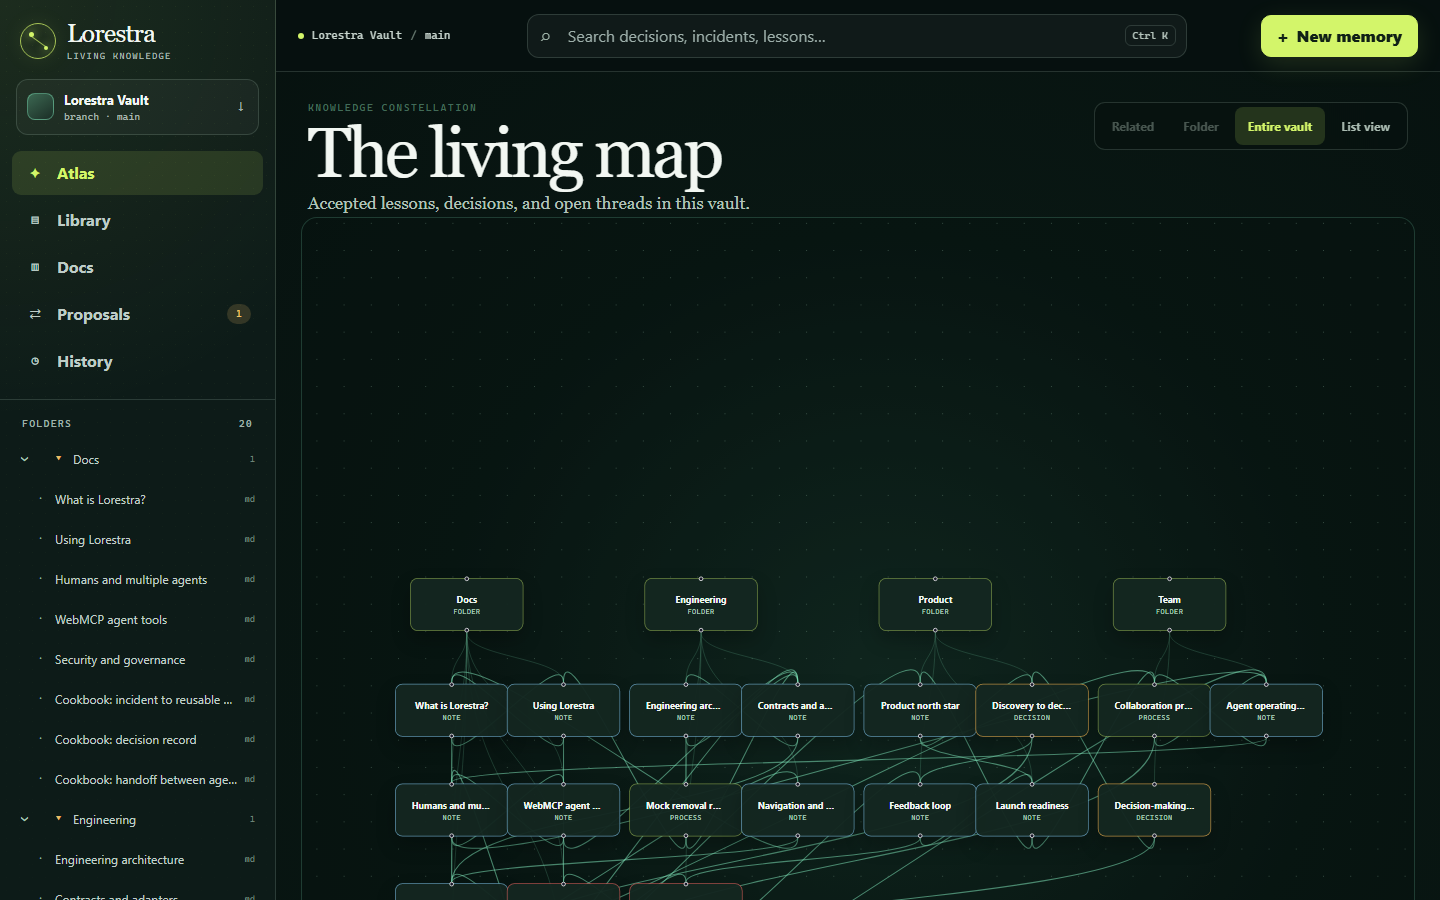
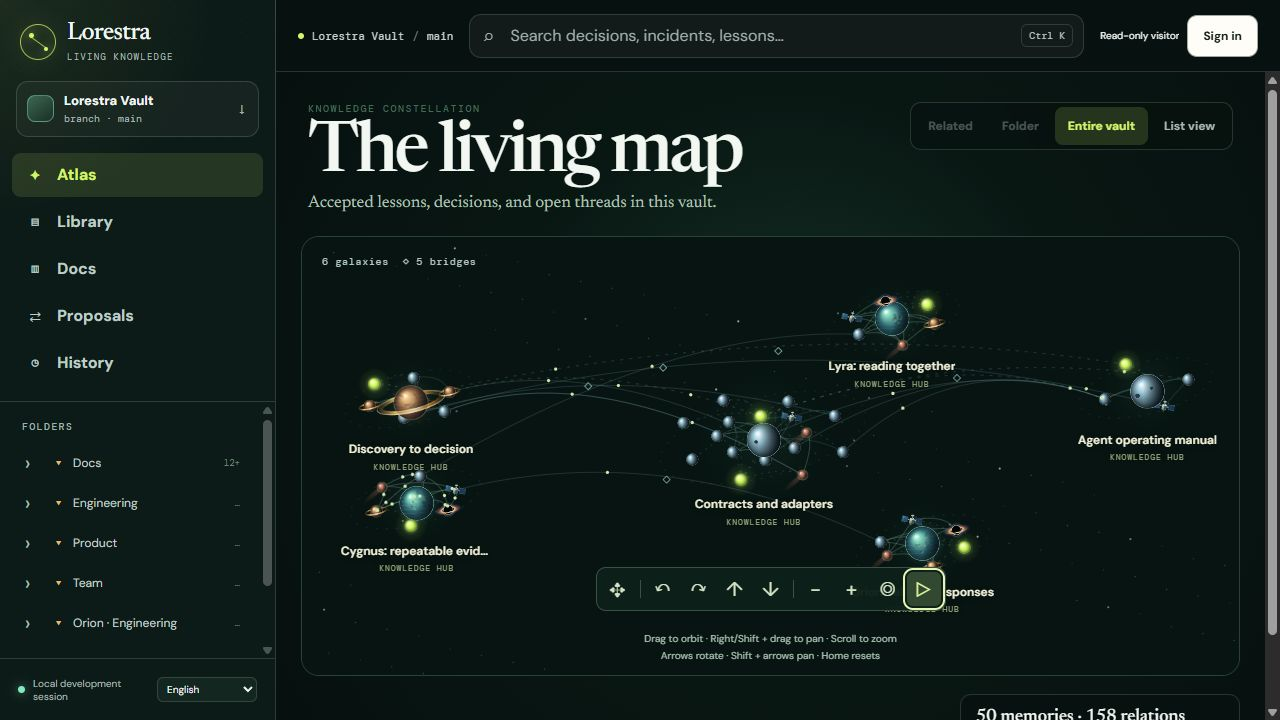
docs(docs): refresh README with current product screenshots

diff --git a/README.md b/README.md
@@ -16,7 +16,9 @@
 
 </div>
 
-![Lorestra Atlas showing a connected, bilingual knowledge vault](docs/media/lorestra-atlas.png)
+![Lorestra's celestial Atlas with connected galaxies, planets, and knowledge hubs](docs/media/lorestra-atlas.png)
+
+_The current local app, captured with the English interface and a fictional knowledge vault._
 
 ## Why Lorestra
 
@@ -64,6 +66,27 @@ Tool schemas and callbacks reuse the exact same typed application clients as the
 - **Vault Docs** — learn the product from bilingual documentation stored and reviewed like every other memory.
 
 The mock also includes **Orion (engineering), Lyra (learning), and Cygnus (research)**: three fictional example communities with guides, notes, decisions, incidents, runbooks, and archived predecessors in both languages. Read [the celestial content model](docs/atlas-content-model.md) to see how metadata chooses planets, stars, satellites, and black holes.
+
+### See the workspace
+
+These screenshots come from the running local HTTP application, not the early HTML prototype. The interface is English; proposal titles and content retain their authors' original language. The read-only visitor view shows public knowledge and merged proposals; authenticated review actions depend on the session's role.
+
+**A review queue with traceable changes.** Open a proposal to inspect its affected files, diff, and resulting history.
+
+![Lorestra proposal list with merged bilingual examples from local agent exercises](docs/media/lorestra-proposals.png)
+
+**Readable knowledge with version context.** The document workspace keeps its status, author, links, and revision alongside the Markdown preview.
+
+![Using Lorestra document with rendered Markdown, version metadata, and navigation tabs](docs/media/lorestra-document.png)
+
+<details>
+<summary>View the same document as Markdown</summary>
+
+Switch to the Markdown tab to inspect the source. Proposed edits follow review and merge; they do not silently replace published knowledge.
+
+![The same Using Lorestra document in the Markdown source tab](docs/media/lorestra-markdown.png)
+
+</details>
 
 ## Run locally
 
